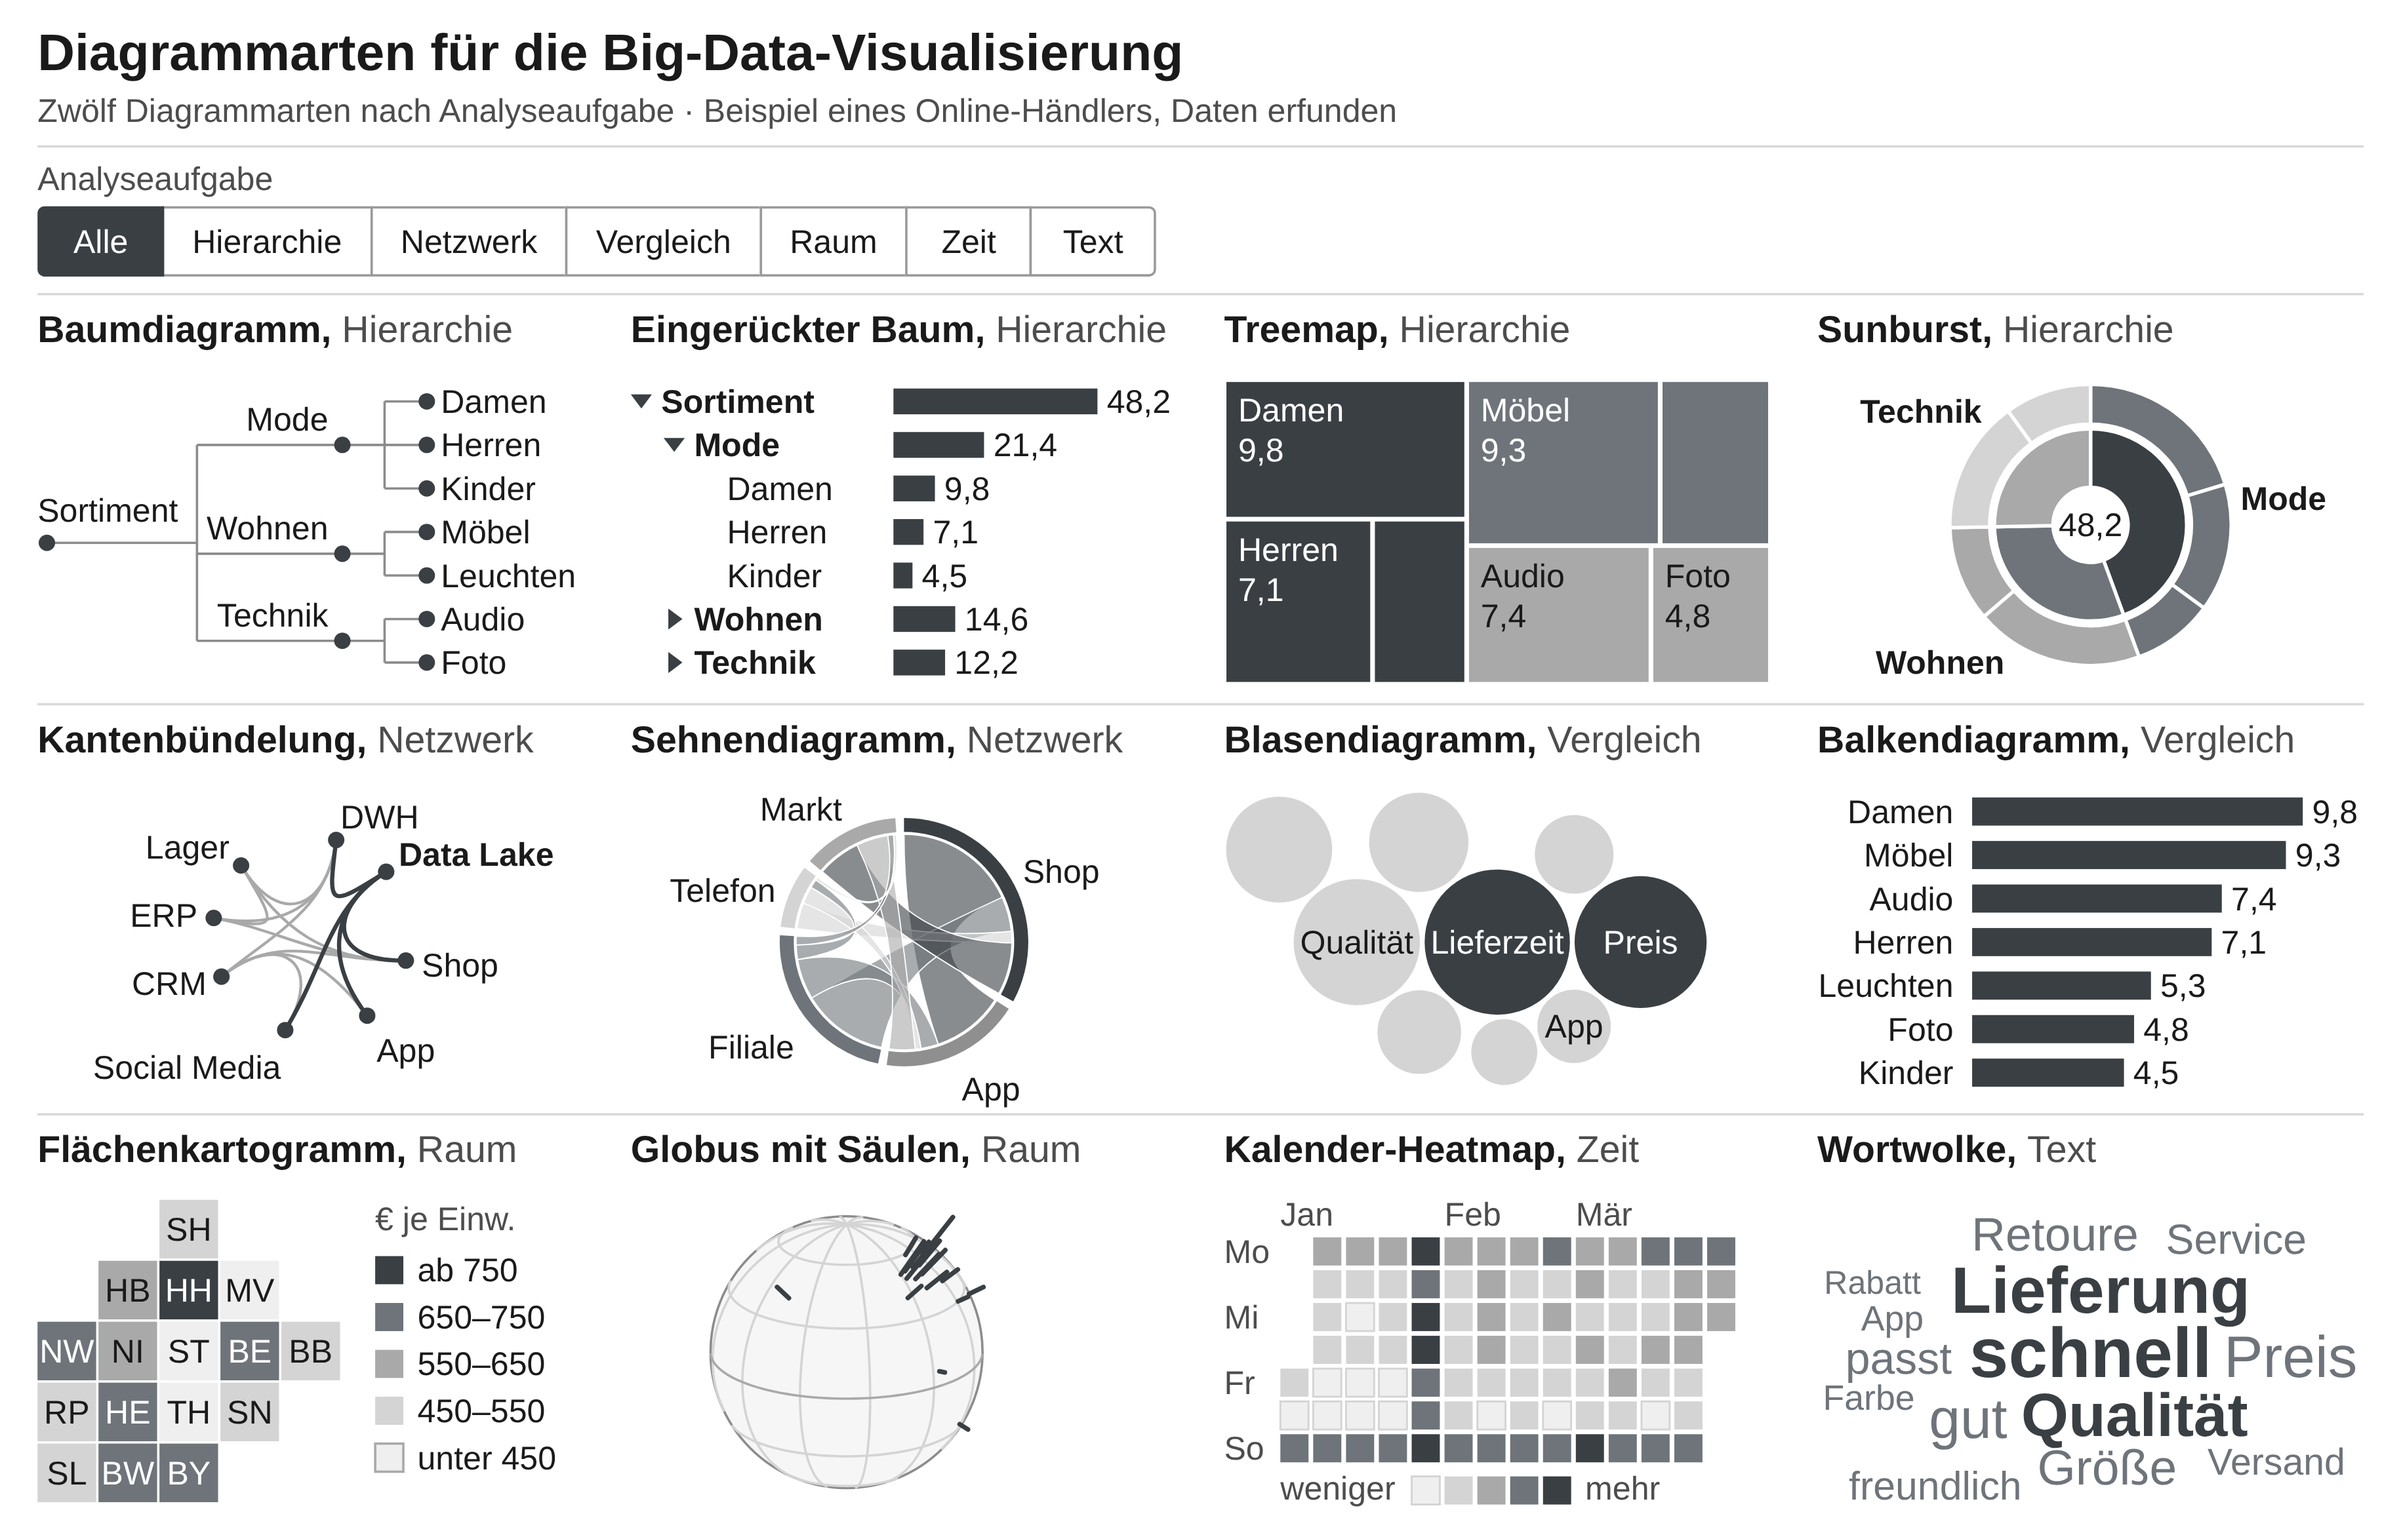
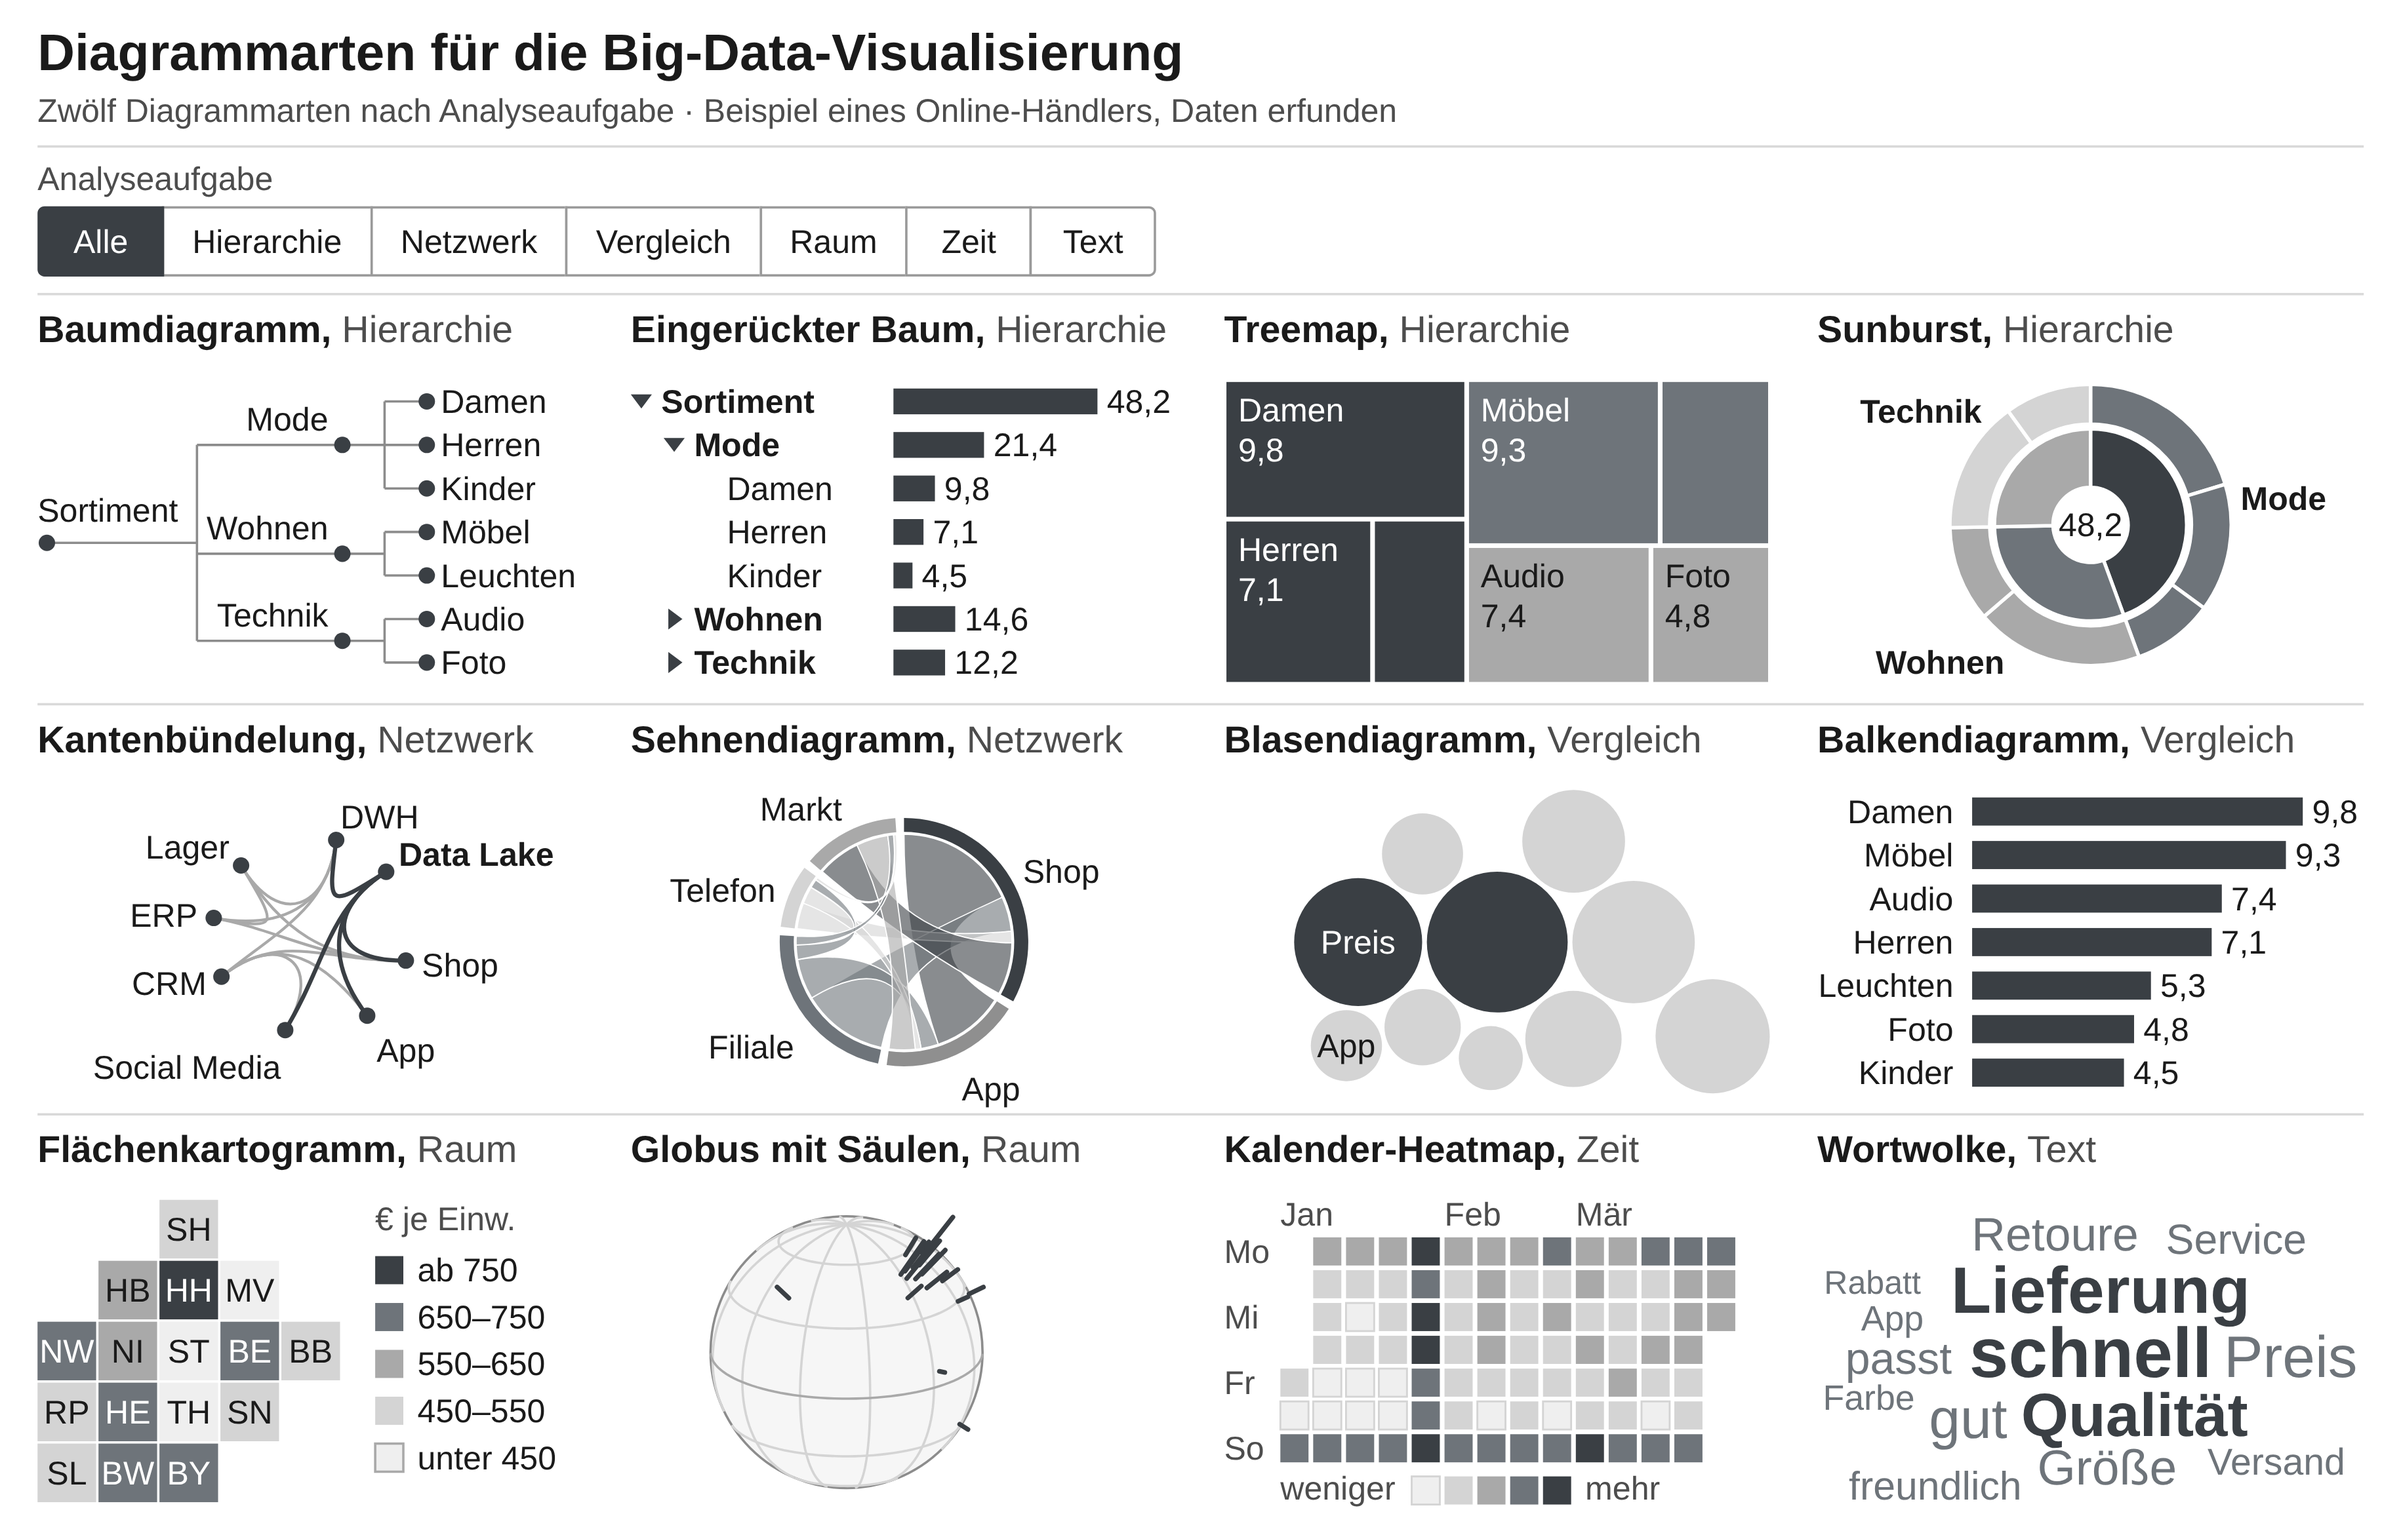
Zwischenstand laufender Abbildungspakete
Claude-Session: https://claude.ai/code/session_015a49Vr6vK6JHdw6trSezHk

Changed region(s): [[0.4982, 0.5299, 0.7473, 0.7169]]

diff --git a/abbildungen/kap5/Diagramme_zur_Big-Data-Datenvisualisierung.html b/abbildungen/kap5/Diagramme_zur_Big-Data-Datenvisualisierung.html
@@ -965,8 +965,12 @@ const DK = (() => {
   }
   let BLASEN = null;
   function blasen(g) {
-    const sum = D.themen.reduce((a, t) => a + t[1], 0), k = Math.sqrt(W * H * 0.53 / (Math.PI * sum));
-    if (!BLASEN) BLASEN = packen(D.themen.map(([n, v], i) => ({ n, v, i, r: k * Math.sqrt(v) })), W, H);
+    const sum = D.themen.reduce((a, t) => a + t[1], 0);
+    // Dichte 53 %; passt eine Blase nicht, alle Radien um 3 % verkleinern und neu packen
+    for (let dichte = 0.53; !BLASEN || BLASEN.length < D.themen.length; dichte *= 0.94) {
+      const k = Math.sqrt(W * H * dichte / (Math.PI * sum));
+      BLASEN = packen(D.themen.map(([n, v], i) => ({ n, v, i, r: k * Math.sqrt(v) })), W, H);
+    }
     BLASEN.forEach(b => {
       const f = b.i < 2 ? AC : "#D4D4D4", gz = sv("g", {}, g);
       T(sv("circle", { cx: b.x, cy: b.y, r: b.r, fill: f }, gz), [b.n, `${zahl(b.v)} Nennungen · ${pz(b.v / sum, 1)} · Rang ${b.i + 1}`]);
@@ -1091,7 +1095,7 @@ const DK = (() => {
   function zeichnen() {
     const sel = TYPEN.find(t => t.key === S.typ);
     let unter;
-    if (sel) unter = passt([`${sel.name}: geeignet für ${sel.geeignet}`, `${sel.name}: ${KAT[sel.kat][1]}`], 700);
+    if (sel) unter = passt([`${sel.name}: geeignet für ${sel.geeignet}`, `${sel.name}: ${KAT[sel.kat][1]}`], 960);
     else if (S.kat !== "alle") { const n = TYPEN.filter(t => t.kat === S.kat).length;
       unter = `${KAT[S.kat][0]}: ${n} ${n === 1 ? "Diagrammart" : "Diagrammarten"} für ${KAT[S.kat][1]}`; }
     else unter = "Zwölf Diagrammarten nach Analyseaufgabe · Beispiel eines Online-Händlers, Daten erfunden";

diff --git a/quellen/kap5/Diagramme_zur_Big-Data-Datenvisualisierung/diagramme.js b/quellen/kap5/Diagramme_zur_Big-Data-Datenvisualisierung/diagramme.js
@@ -330,8 +330,12 @@
   }
   let BLASEN = null;
   function blasen(g) {
-    const sum = D.themen.reduce((a, t) => a + t[1], 0), k = Math.sqrt(W * H * 0.53 / (Math.PI * sum));
-    if (!BLASEN) BLASEN = packen(D.themen.map(([n, v], i) => ({ n, v, i, r: k * Math.sqrt(v) })), W, H);
+    const sum = D.themen.reduce((a, t) => a + t[1], 0);
+    // Dichte 53 %; passt eine Blase nicht, alle Radien um 3 % verkleinern und neu packen
+    for (let dichte = 0.53; !BLASEN || BLASEN.length < D.themen.length; dichte *= 0.94) {
+      const k = Math.sqrt(W * H * dichte / (Math.PI * sum));
+      BLASEN = packen(D.themen.map(([n, v], i) => ({ n, v, i, r: k * Math.sqrt(v) })), W, H);
+    }
     BLASEN.forEach(b => {
       const f = b.i < 2 ? AC : "#D4D4D4", gz = sv("g", {}, g);
       T(sv("circle", { cx: b.x, cy: b.y, r: b.r, fill: f }, gz), [b.n, `${zahl(b.v)} Nennungen · ${pz(b.v / sum, 1)} · Rang ${b.i + 1}`]);
@@ -456,7 +460,7 @@
   function zeichnen() {
     const sel = TYPEN.find(t => t.key === S.typ);
     let unter;
-    if (sel) unter = passt([`${sel.name}: geeignet für ${sel.geeignet}`, `${sel.name}: ${KAT[sel.kat][1]}`], 700);
+    if (sel) unter = passt([`${sel.name}: geeignet für ${sel.geeignet}`, `${sel.name}: ${KAT[sel.kat][1]}`], 960);
     else if (S.kat !== "alle") { const n = TYPEN.filter(t => t.kat === S.kat).length;
       unter = `${KAT[S.kat][0]}: ${n} ${n === 1 ? "Diagrammart" : "Diagrammarten"} für ${KAT[S.kat][1]}`; }
     else unter = "Zwölf Diagrammarten nach Analyseaufgabe · Beispiel eines Online-Händlers, Daten erfunden";
